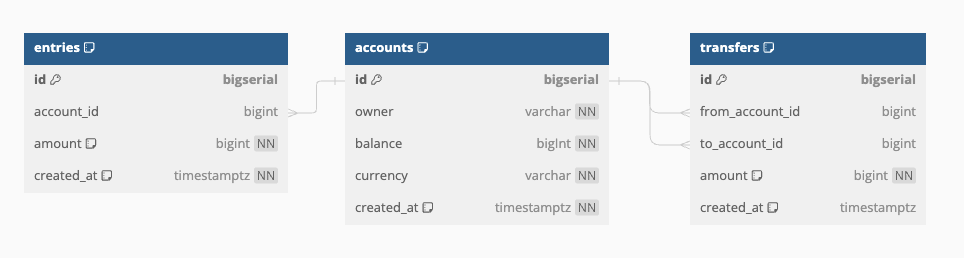
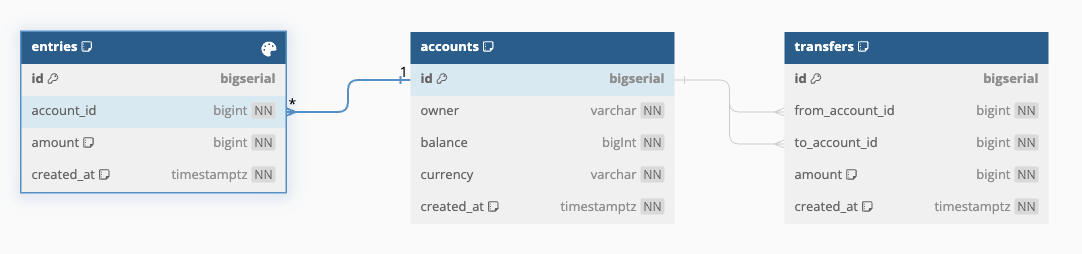
update image and link to part 2

diff --git a/posts/creating-a-postgres-db.md b/posts/creating-a-postgres-db.md
@@ -58,7 +58,7 @@ Table transfers {
 Click the "AutoArrange" icon on the bottom toolbar of the rendered diagram. The icon looks like this:  
 ![autoarrange](/images/autoarrange.png)
 
-You can see the one to many relationships we set up above! Now you can share this easily with your team! (Note: I switched the accounts and entries by dragging them around to better see the relationship)
+You can see the one to many relationships we set up above. Now you can share this easily with your team! (Note: I switched the accounts and entries by dragging them around to better see the relationship)
 ![DB Diagram](/images/diagram.png)
 
 ### Export to PostgreSQL
@@ -113,4 +113,4 @@ ALTER TABLE "transfers" ADD FOREIGN KEY ("to_account_id") REFERENCES "accounts" 
 
 ### On to part 2!
 
-I hope you found this helpful. If you are curious how to set up a postgreSQL database check out part 2 which will show how to set up a postgreSQL database within docker.
+I hope you found this helpful. If you are curious how to set up a postgreSQL database check out [part 2](/posts/creating-a-postgres-db-part-2) which will show how to set up a postgreSQL database within docker.

diff --git a/posts/creating-a-postgres-db-part-2.md b/posts/creating-a-postgres-db-part-2.md
@@ -6,7 +6,7 @@ topics: 'Typescript'
 
 ### Continuing on...
 
-Alright so in part 1 we created our schema and even exported the schema into a .sql file. Pretty cool. Now lets get that schema to actually create our tables in postgreSQL.
+Alright so in [part 1](/posts/creating-a-postgres-db) we created our schema and even exported the schema into a .sql file. Pretty cool. Now lets get that schema to actually create our tables in postgreSQL.
 
 ### Populating PostgreSQL with our schema
 
@@ -84,5 +84,7 @@ You can highlight any of the tables and select the "Structure" tab to view info 
 Thats it! Your database is now initialized.
 
 In this blog post we learned how to pull down a database image from docker hub, initialize it, read logs and populate it using a free GUI tool called tableplus.
+
+In the next post in this series I'll show how to connect to our database within our repository and eventually use **sqlc** to generate CRUD Go code! Heads will explode! Well at least mine...
 
 I hope this was helpful and thanks for reading.
